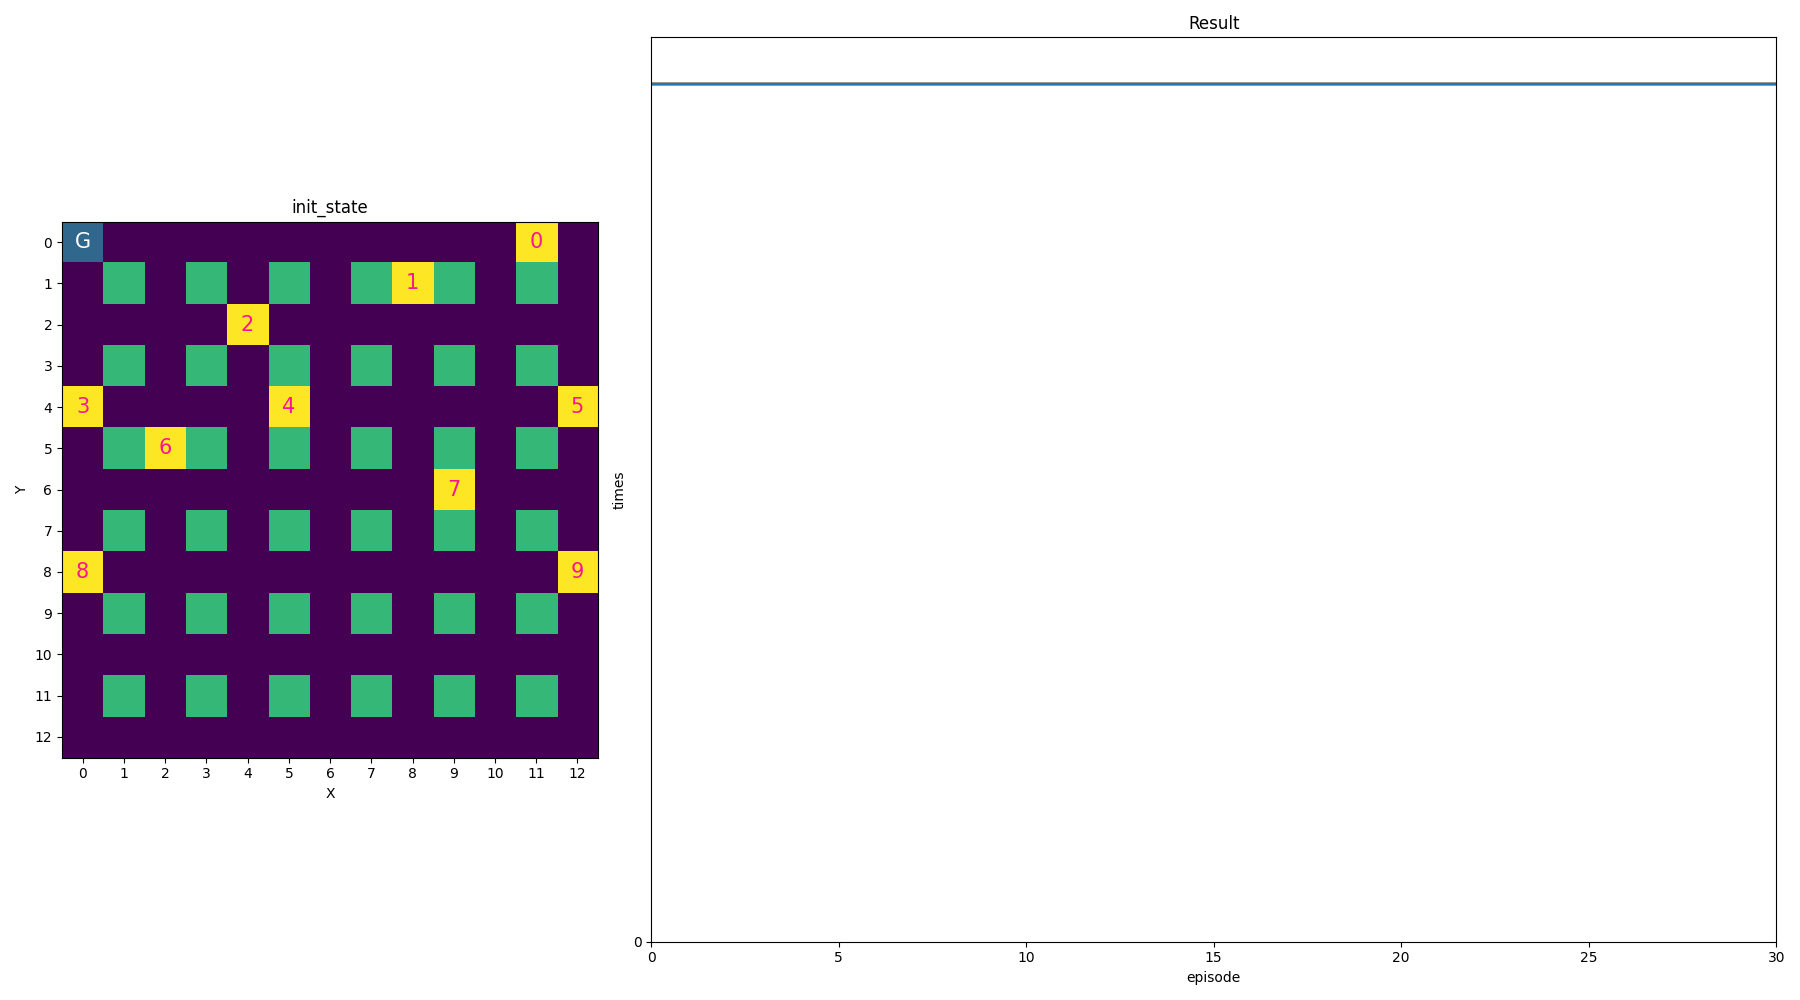
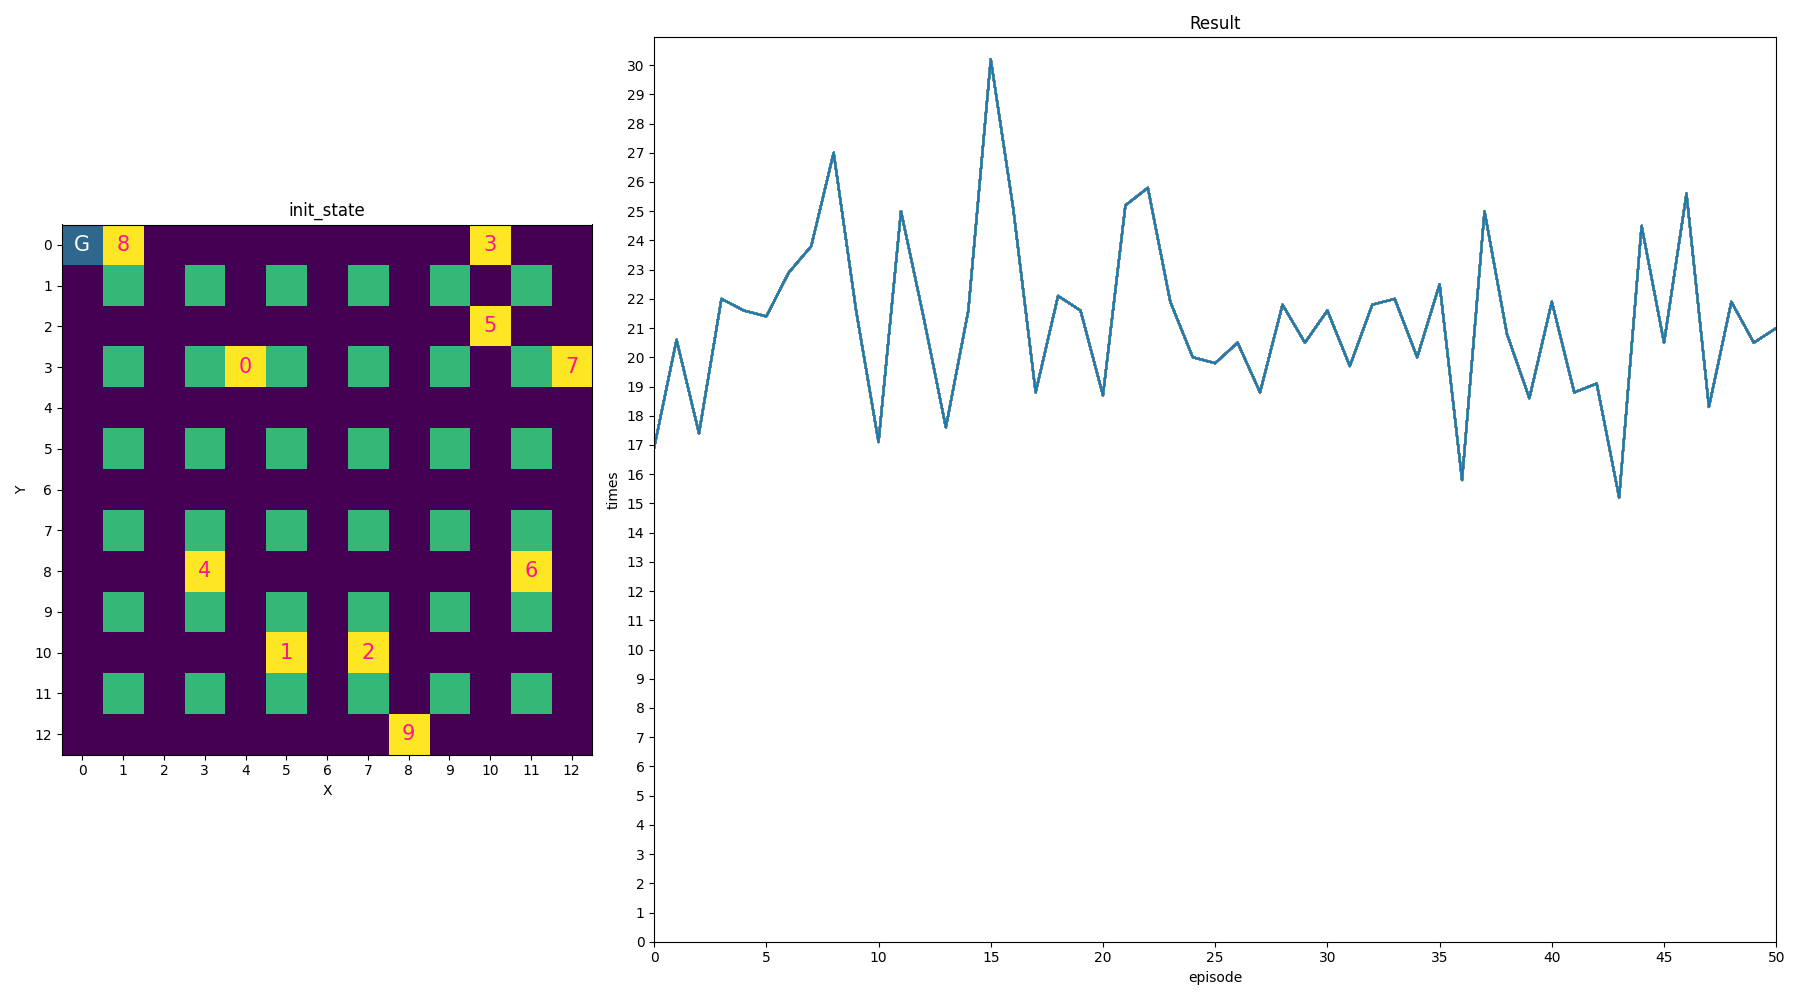
01/05 14:24

diff --git a/multi.py b/multi.py
@@ -10,7 +10,7 @@ from qlearning_agent import Summon
 from main import Plotting
 
 # 定数
-NB_EPISODE = 31   # エピソード数
+NB_EPISODE = 51   # エピソード数
 X_MAX = 13
 Y_MAX = 13
 POPULATION = 10
@@ -21,6 +21,7 @@ if __name__ == '__main__':
         x_max=X_MAX,
         y_max=Y_MAX)
 
+    """
     decided_zero = [grid_env.zero_list[10],
                     grid_env.zero_list[16],
                     grid_env.zero_list[23],
@@ -31,16 +32,18 @@ if __name__ == '__main__':
                     grid_env.zero_list[68],
                     grid_env.zero_list[79],
                     grid_env.zero_list[91]]
-    
-    summon = Summon(             # エージェントの召喚
-        zero_list=decided_zero,
-        population=POPULATION)
-    print(f"StaRt time = {time.time()-start}")    #times = []
+    """
+
+
+    #print(f"StaRt time = {time.time()-start}")    #times = []
 
     action_exp = [0,2]
 
     episode_reward = np.zeros((NB_EPISODE, POPULATION))  # 1エピソードの累積報酬
     for episode in range(NB_EPISODE):   # 実験
+        summon = Summon(             # エージェントの召喚
+        zero_list=grid_env.zero_list,
+        population=POPULATION)
         is_end_episode = np.zeros(POPULATION)
         for i in summon.agents:
             start_x = i.observation[0]
@@ -67,7 +70,7 @@ if __name__ == '__main__':
             id.observation = grid_env.reset(id.init_pos)  # 初期化
             #print(summon.agents[id].observation)
         #agent.observe(state)    # エージェントを初期位置に
-        print(f"EP.{episode +1} End time = {time.time()-start}") #(t = {len(episode_reward)})"# 所要時間の計算
+        #print(f"EP.{episode +1} End time = {time.time()-start}") #(t = {len(episode_reward)})"# 所要時間の計算
     fig = plt.figure(figsize=(18,10), tight_layout=True)  # 図を描く大きさと、図の変数名を宣言
     gs = fig.add_gridspec(1, 3)
     ax1 = fig.add_subplot(
@@ -85,6 +88,7 @@ if __name__ == '__main__':
         xlim=(0,NB_EPISODE-1))
     avg = episode_reward.mean(axis=1)
     print(avg)
+    print(avg.mean())
     lines = [ax2.plot(np.arange(NB_EPISODE),avg) for episode in range(NB_EPISODE)]
     y_min, max_y = ax2.get_ylim()
     ax2.set_ylim(0, max_y)
@@ -93,7 +97,7 @@ if __name__ == '__main__':
     ax1.xaxis.set_major_locator(ticker.MultipleLocator())
     ax1.yaxis.set_major_locator(ticker.MultipleLocator())
     ax2.xaxis.set_major_locator(ticker.MultipleLocator(5))
-    ax2.yaxis.set_major_locator(ticker.MultipleLocator(100)) 
+    ax2.yaxis.set_major_locator(ticker.MultipleLocator()) 
     #Plotting.text(episode_reward,ax2,"deeppink")
     for index,value in enumerate(summon.agents):
         ax1.text(value.init_pos[1], value.init_pos[0], index, size=15, color='deeppink', ha='center', va='center')

diff --git a/qlearning_agent.py b/qlearning_agent.py
@@ -17,7 +17,7 @@ class Summon:
     def __generate_agents(self, zero_list, population):
         agents = []
         for id in range(population):
-            ini_state = zero_list[id] # 初期状態（エージェントのスタート地点の位置）
+            ini_state = random.choice(zero_list) # 初期状態（エージェントのスタート地点の位置）
             agents.append(
                 QLearningAgent(
                     alpha=ALPHA,
